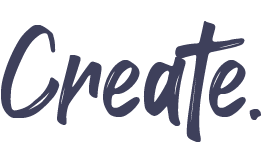
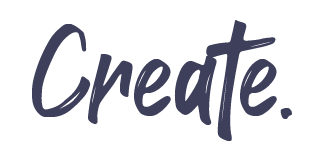
Fixed tagline photo and updated resume link

Changed region(s): [[0.0, 0.1242, 0.9502, 0.9006], [0.9502, 0.6522, 1.0, 0.7453], [0.4598, 0.3416, 0.4904, 0.3727]]

diff --git a/about/index.html b/about/index.html
@@ -191,7 +191,7 @@
         <div class="social">
           <h4>Social</h4>
           <div class="social-icons">
-            <p><a href="https://drive.google.com/file/d/1IPlX6Y0u0A40E3Fw6mdfmgw1wcV1jzXd/view?usp=sharing"
+            <p><a href="https://drive.google.com/file/d/1SmXjXyxinbr09xzEWQ-zIbOWyzsZFk28/view?usp=sharing"
                 target="_blank"><i class="fas fa-portrait"></i></i></a></p>
             <p><a href="https://www.linkedin.com/ashley-moring" target="_blank"><i class="fab fa-linkedin"></i></a></p>
             <p><a href="https://www.behance.com/ashleymoring" target="_blank"><i class="fab fa-behance-square"></i></a>

diff --git a/create/index.html b/create/index.html
@@ -172,7 +172,7 @@
         <div class="social">
           <h4>Social</h4>
           <div class="social-icons">
-            <p><a href="https://drive.google.com/file/d/1IPlX6Y0u0A40E3Fw6mdfmgw1wcV1jzXd/view?usp=sharing"
+            <p><a href="https://drive.google.com/file/d/1SmXjXyxinbr09xzEWQ-zIbOWyzsZFk28/view?usp=sharing"
                 target="_blank"><i class="fas fa-portrait"></i></i></a></p>
             <p><a href="https://www.linkedin.com/ashley-moring" target="_blank"><i class="fab fa-linkedin"></i></a></p>
             <p><a href="https://www.behance.com/ashleymoring" target="_blank"><i class="fab fa-behance-square"></i></a>

diff --git a/design/index.html b/design/index.html
@@ -165,7 +165,7 @@
         <div class="social">
           <h4>Social</h4>
           <div class="social-icons">
-            <p><a href="https://drive.google.com/file/d/1IPlX6Y0u0A40E3Fw6mdfmgw1wcV1jzXd/view?usp=sharing"
+            <p><a href="https://drive.google.com/file/d/1SmXjXyxinbr09xzEWQ-zIbOWyzsZFk28/view?usp=sharing"
                 target="_blank"><i class="fas fa-portrait"></i></i></a></p>
             <p><a href="https://www.linkedin.com/ashley-moring" target="_blank"><i class="fab fa-linkedin"></i></a></p>
             <p><a href="https://www.behance.com/ashleymoring" target="_blank"><i class="fab fa-behance-square"></i></a>

diff --git a/develop/index.html b/develop/index.html
@@ -154,7 +154,7 @@
         <div class="social">
           <h4>Social</h4>
           <div class="social-icons">
-            <p><a href="https://drive.google.com/file/d/1IPlX6Y0u0A40E3Fw6mdfmgw1wcV1jzXd/view?usp=sharing"
+            <p><a href="https://drive.google.com/file/d/1SmXjXyxinbr09xzEWQ-zIbOWyzsZFk28/view?usp=sharing"
                 target="_blank"><i class="fas fa-portrait"></i></i></a></p>
             <p><a href="https://www.linkedin.com/ashley-moring" target="_blank"><i class="fab fa-linkedin"></i></a></p>
             <p><a href="https://www.behance.com/ashleymoring" target="_blank"><i class="fab fa-behance-square"></i></a>

diff --git a/index.html b/index.html
@@ -176,7 +176,7 @@
         <div class="social">
           <h4>Social</h4>
           <div class="social-icons">
-            <p><a href="https://drive.google.com/file/d/1IPlX6Y0u0A40E3Fw6mdfmgw1wcV1jzXd/view?usp=sharing"
+            <p><a href="https://drive.google.com/file/d/1SmXjXyxinbr09xzEWQ-zIbOWyzsZFk28/view?usp=sharing"
                 target="_blank"><i class="fas fa-portrait"></i></i></a></p>
             <p><a href="https://www.linkedin.com/ashley-moring" target="_blank"><i class="fab fa-linkedin"></i></a></p>
             <p><a href="https://www.behance.com/ashleymoring" target="_blank"><i class="fab fa-behance-square"></i></a>
